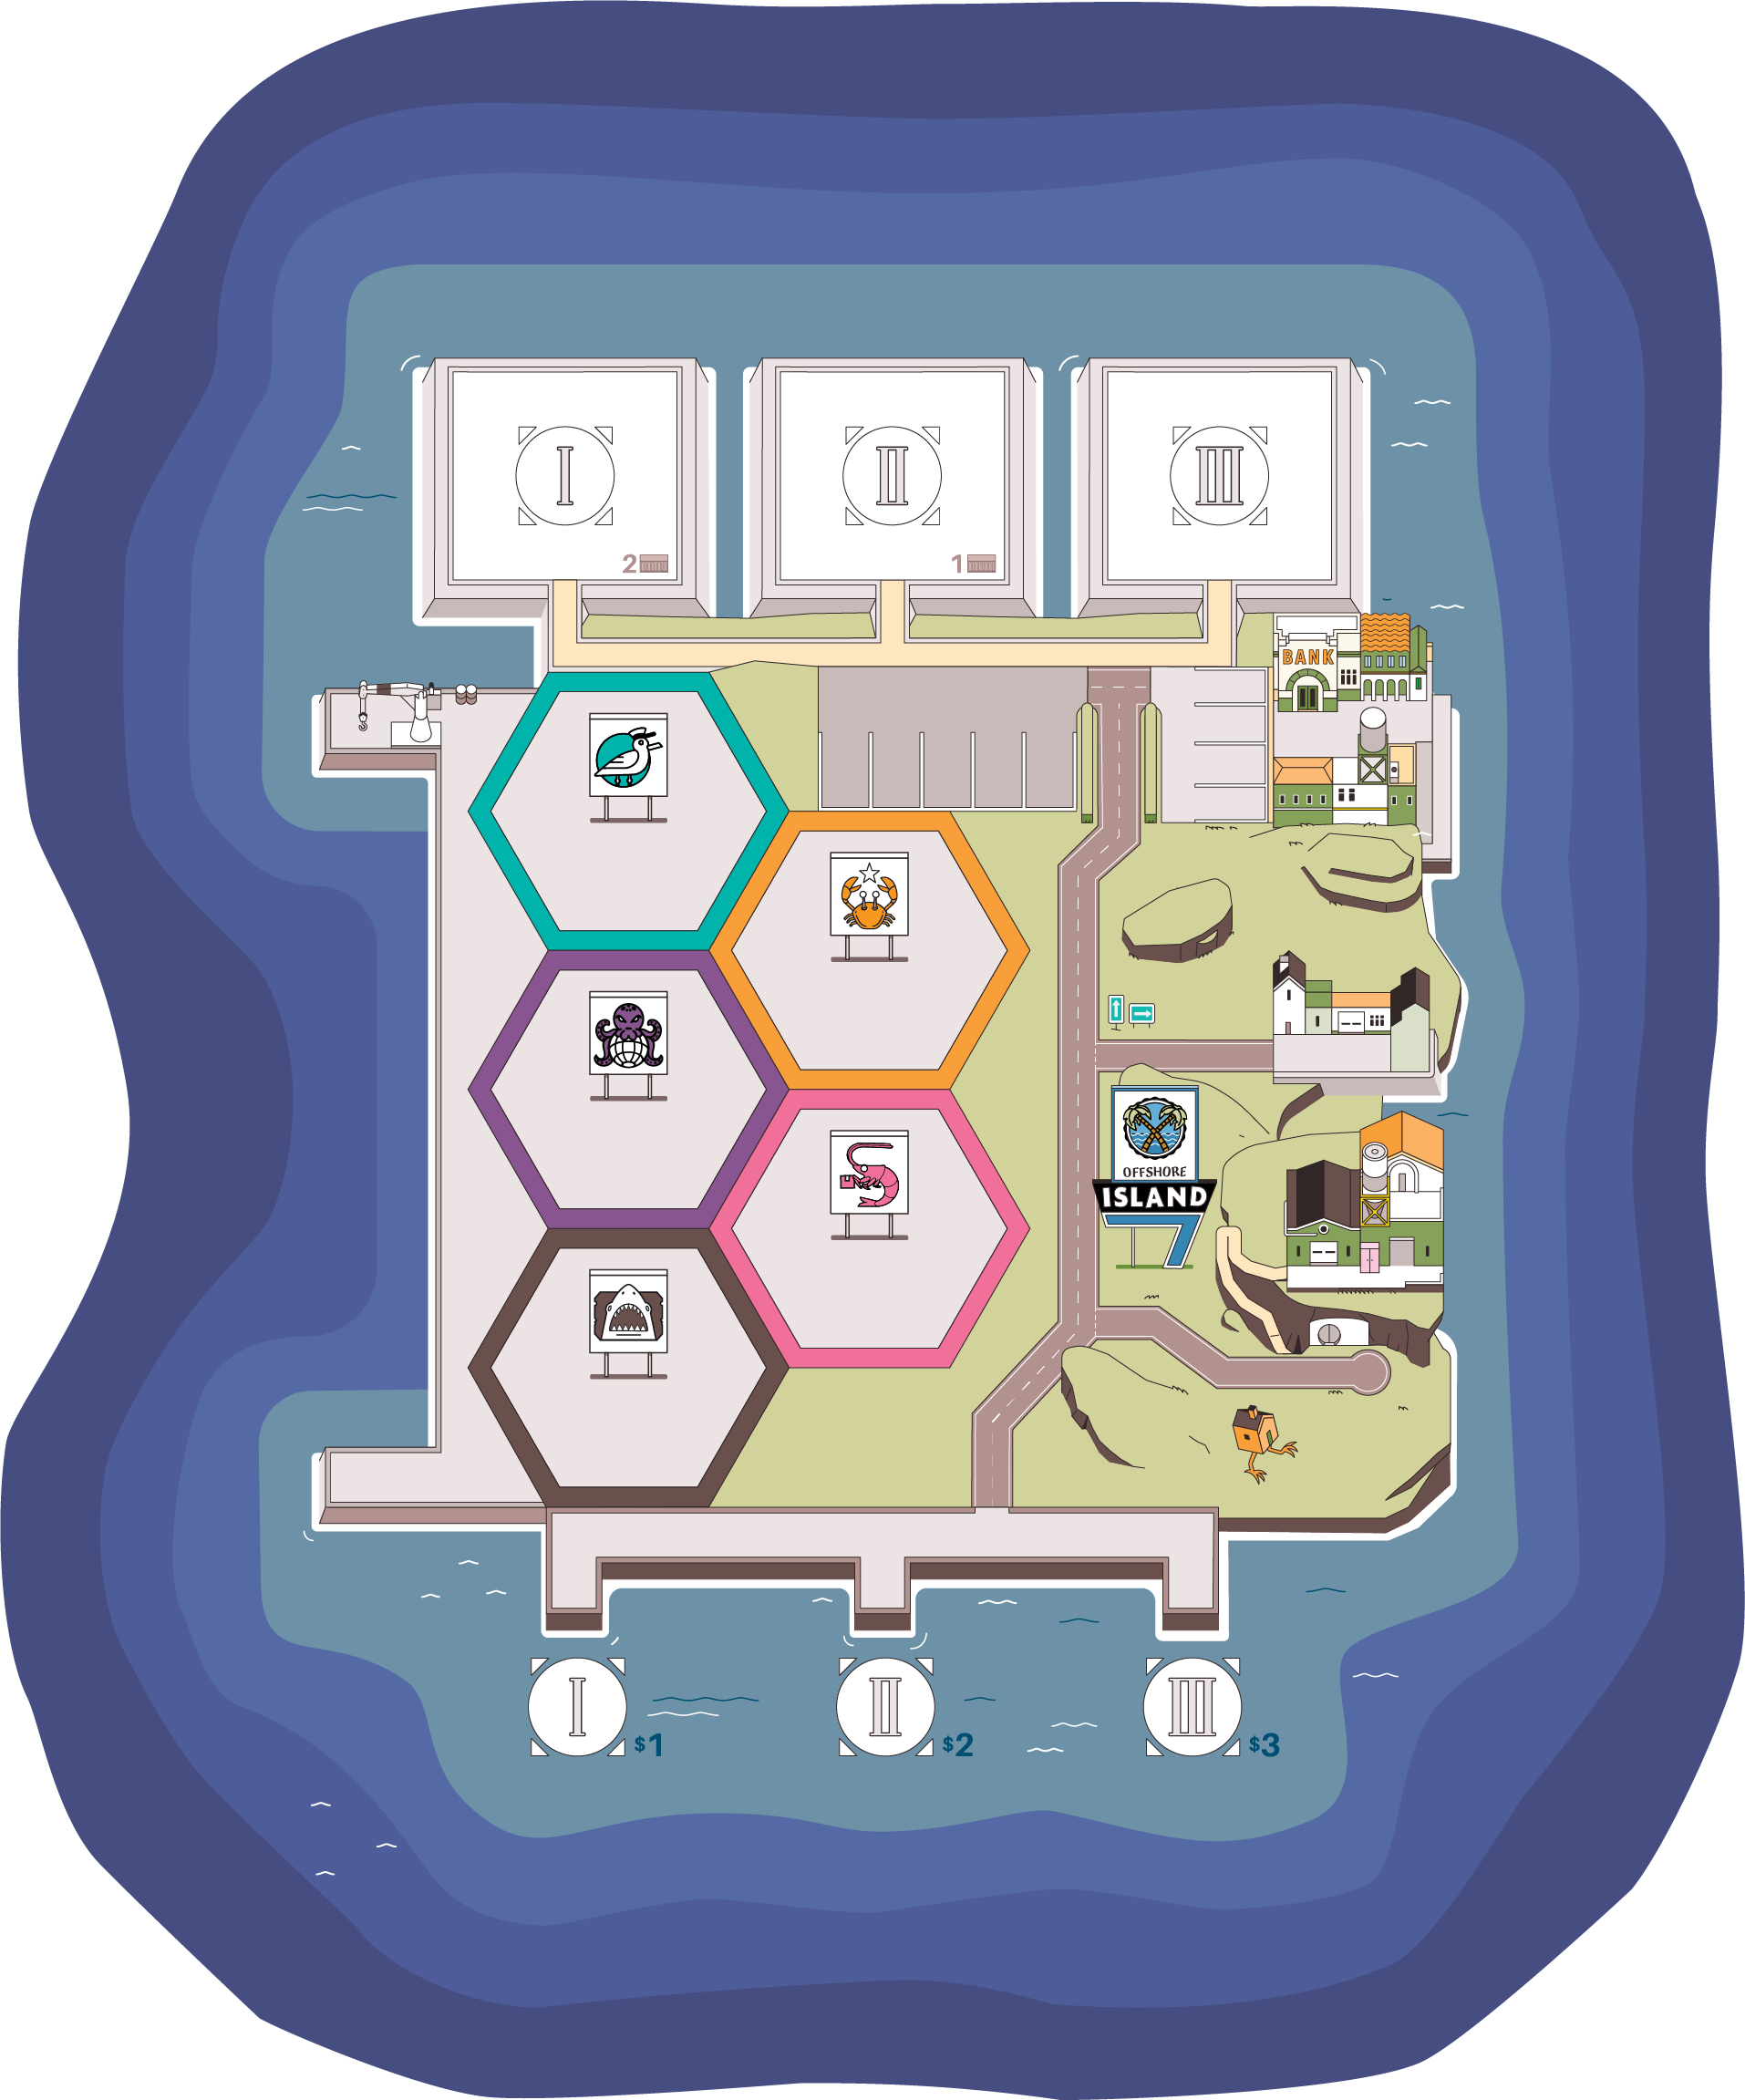
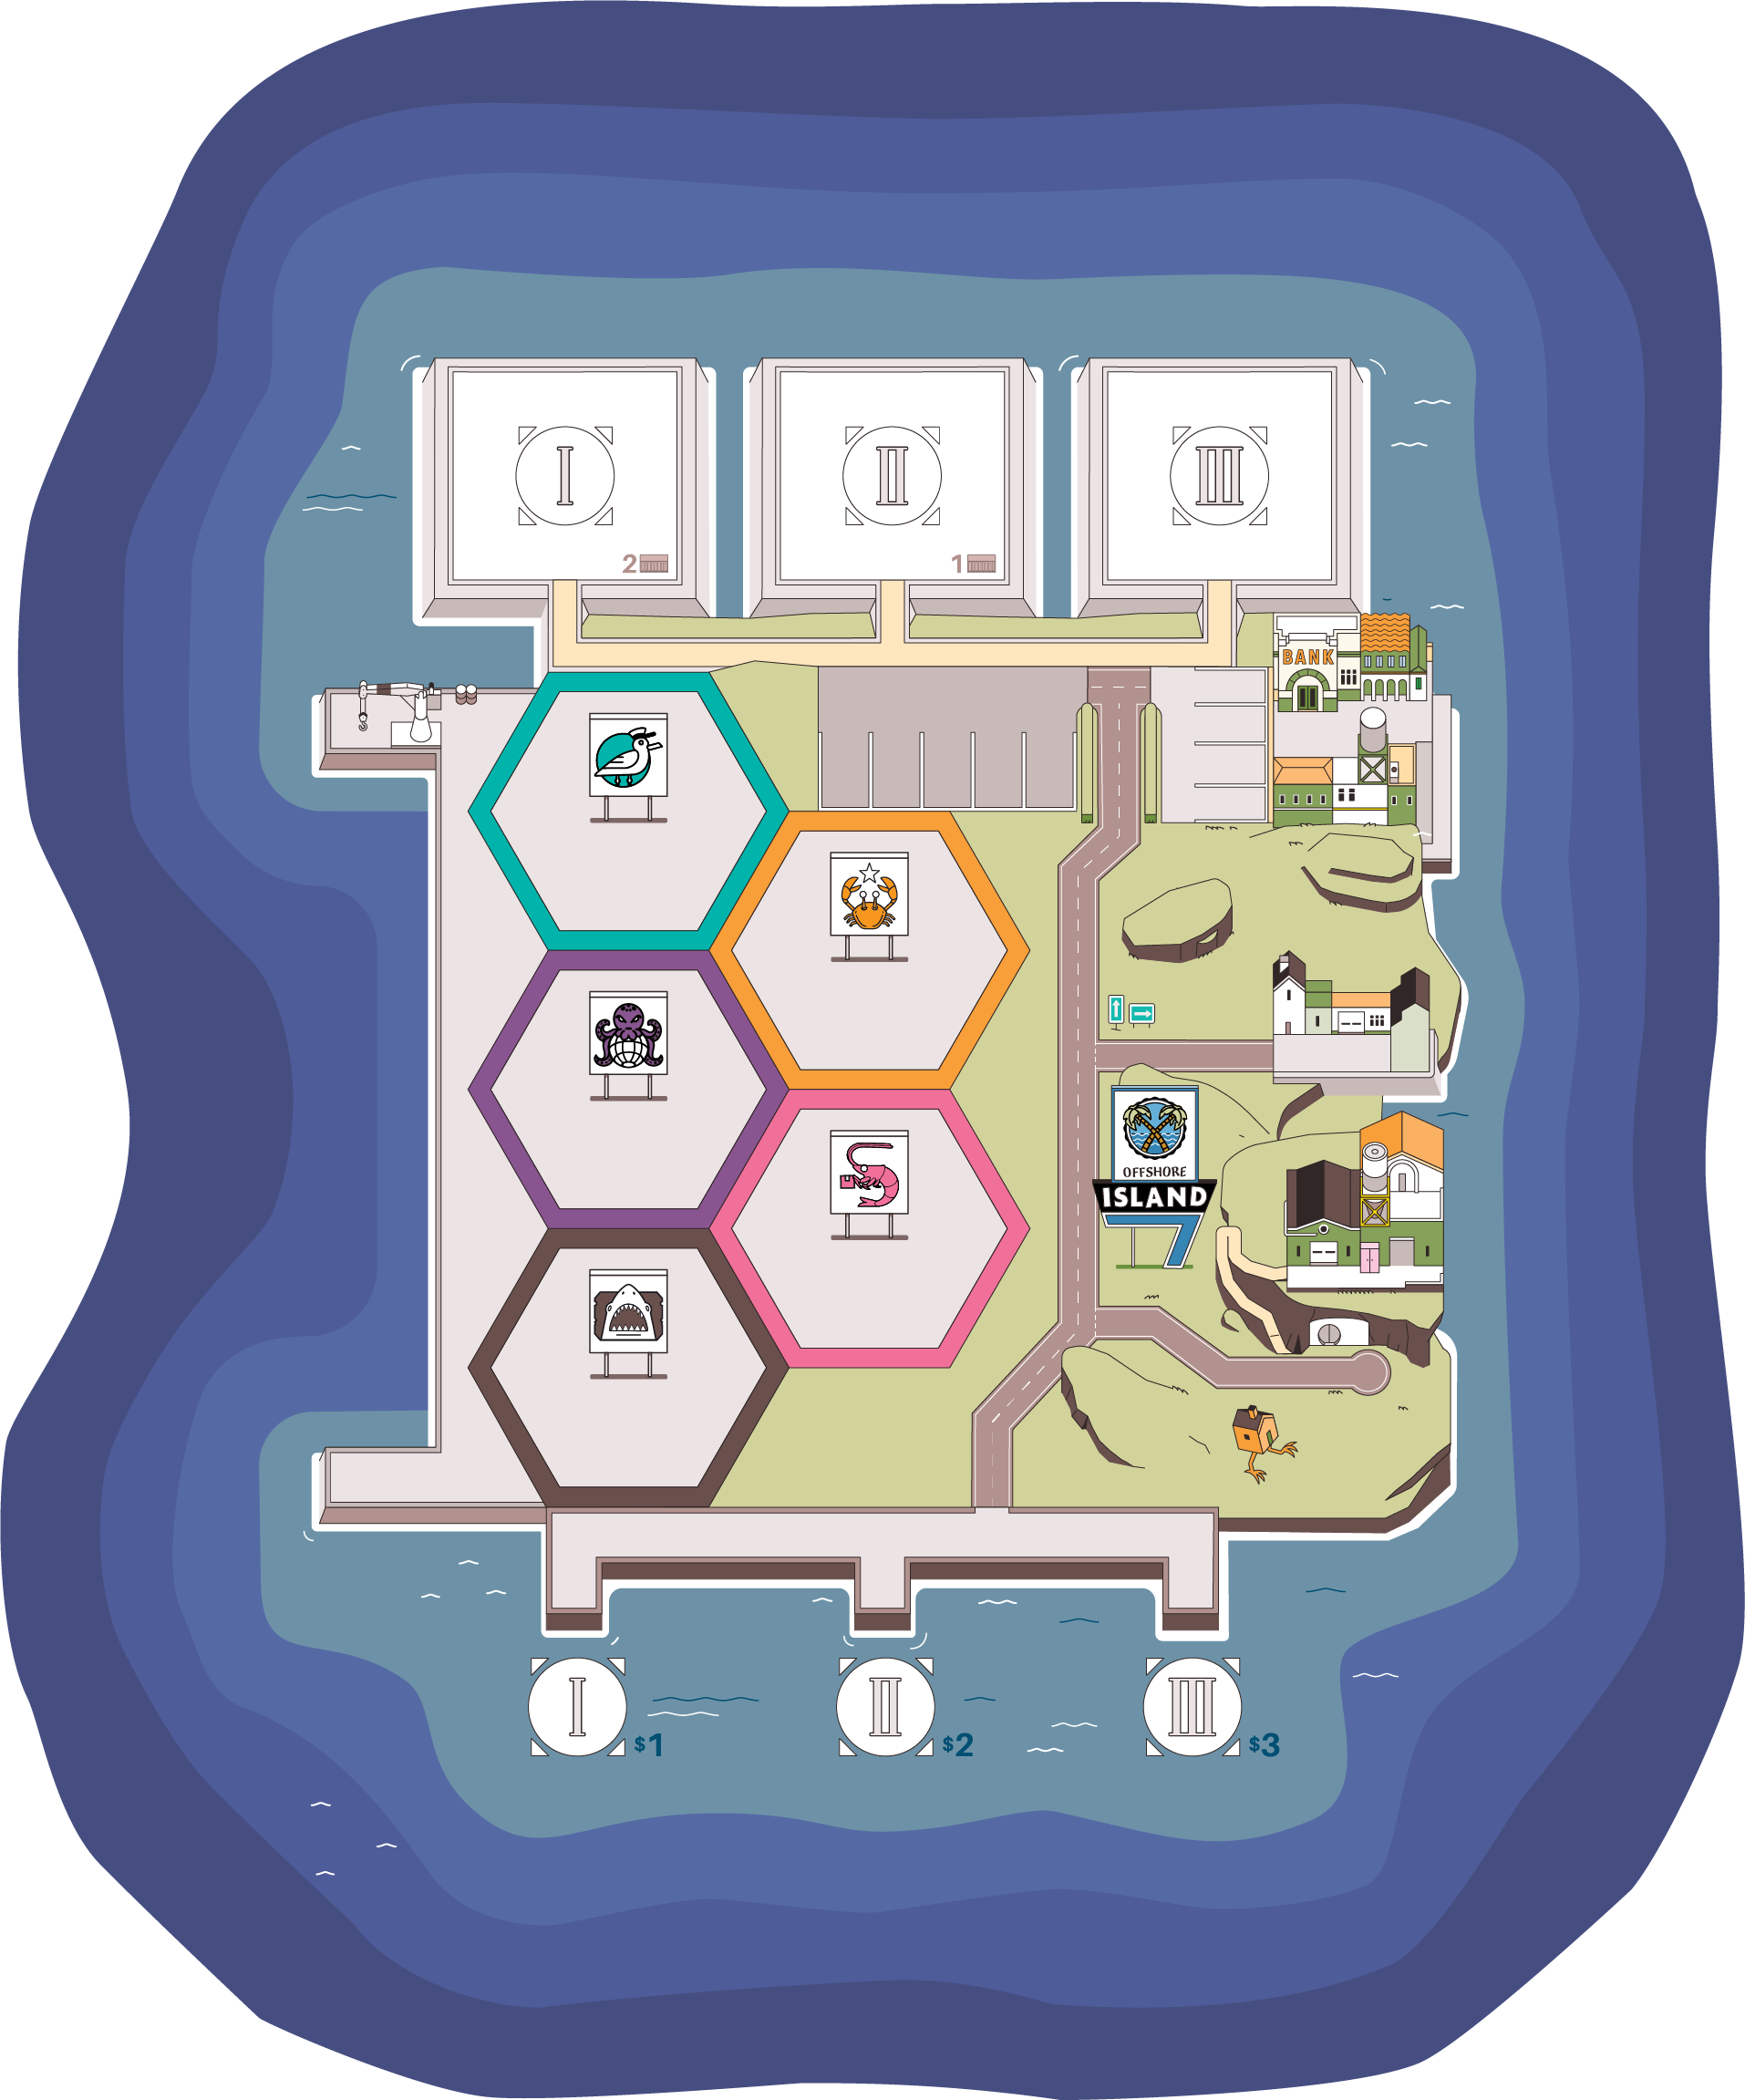
offshore

diff --git a/games/container-ui/src/lib/definitions/svgPathSampler.ts b/games/container-ui/src/lib/definitions/svgPathSampler.ts
@@ -16,6 +16,8 @@ const PARAMS_PER_COMMAND: Record<string, number> = {
     v: 1,
     C: 6,
     c: 6,
+    S: 4,
+    s: 4,
     Z: 0,
     z: 0
 }
@@ -41,6 +43,8 @@ export function sampleSvgPathToPolygon(
 
     let current: Point = { x: 0, y: 0 }
     let subpathStart: Point = { x: 0, y: 0 }
+    let previousCubicControl2: Point | null = null
+    let previousCommand: string | null = null
 
     for (const { command, values } of commands) {
         switch (command) {
@@ -50,12 +54,14 @@ export function sampleSvgPathToPolygon(
                 current = next
                 subpathStart = next
                 points.push(transformPoint(next, scaleX, scaleY, offsetX, offsetY))
+                previousCubicControl2 = null
                 break
             }
             case 'L':
             case 'l': {
                 current = command === 'L' ? toPoint(values[0]!, values[1]!) : addPoint(current, values)
                 points.push(transformPoint(current, scaleX, scaleY, offsetX, offsetY))
+                previousCubicControl2 = null
                 break
             }
             case 'H':
@@ -65,6 +71,7 @@ export function sampleSvgPathToPolygon(
                     y: current.y
                 }
                 points.push(transformPoint(current, scaleX, scaleY, offsetX, offsetY))
+                previousCubicControl2 = null
                 break
             }
             case 'V':
@@ -74,6 +81,7 @@ export function sampleSvgPathToPolygon(
                     y: command === 'V' ? values[0]! : current.y + values[0]!
                 }
                 points.push(transformPoint(current, scaleX, scaleY, offsetX, offsetY))
+                previousCubicControl2 = null
                 break
             }
             case 'C':
@@ -105,16 +113,57 @@ export function sampleSvgPathToPolygon(
                 }
 
                 current = end
+                previousCubicControl2 = control2
+                break
+            }
+            case 'S':
+            case 's': {
+                const control1 =
+                    previousCommand &&
+                    ['C', 'c', 'S', 's'].includes(previousCommand) &&
+                    previousCubicControl2
+                        ? {
+                              x: current.x * 2 - previousCubicControl2.x,
+                              y: current.y * 2 - previousCubicControl2.y
+                          }
+                        : current
+                const control2 =
+                    command === 'S'
+                        ? toPoint(values[0]!, values[1]!)
+                        : { x: current.x + values[0]!, y: current.y + values[1]! }
+                const end =
+                    command === 'S'
+                        ? toPoint(values[2]!, values[3]!)
+                        : { x: current.x + values[2]!, y: current.y + values[3]! }
+
+                for (let step = 1; step <= cubicSubdivisions; step += 1) {
+                    const t = step / cubicSubdivisions
+                    points.push(
+                        transformPoint(
+                            sampleCubicBezier(current, control1, control2, end, t),
+                            scaleX,
+                            scaleY,
+                            offsetX,
+                            offsetY
+                        )
+                    )
+                }
+
+                current = end
+                previousCubicControl2 = control2
                 break
             }
             case 'Z':
             case 'z': {
                 current = subpathStart
+                previousCubicControl2 = null
                 break
             }
             default:
                 throw new Error(`Unsupported SVG path command: ${command}`)
         }
+
+        previousCommand = command
     }
 
     return dedupeAdjacentPoints(points)

diff --git a/games/container-ui/src/lib/definitions/boatNavigation.ts b/games/container-ui/src/lib/definitions/boatNavigation.ts
@@ -7,9 +7,13 @@ import {
 import { polygonFromRect } from '$lib/definitions/geometry2d.js'
 import {
     getMainIslandDockBoatAnchors,
+    getOffshoreDockBoatAnchors,
     MAIN_ISLAND_BOUNDARY_PATH,
     MAIN_ISLAND_SOURCE_HEIGHT,
-    MAIN_ISLAND_SOURCE_WIDTH
+    MAIN_ISLAND_SOURCE_WIDTH,
+    OFFSHORE_ISLAND_BOUNDARY_PATH,
+    OFFSHORE_ISLAND_SOURCE_HEIGHT,
+    OFFSHORE_ISLAND_SOURCE_WIDTH
 } from '$lib/definitions/islandGeometry.js'
 import { getPlayerBoardDockBoatAnchors } from '$lib/definitions/playerBoardGeometry.js'
 import { sampleSvgPathToPolygon } from '$lib/definitions/svgPathSampler.js'
@@ -22,7 +26,7 @@ export type BoatPose = {
 
 export type DockSlot = {
     id: string
-    family: 'main-island-harbor' | 'player-board'
+    family: 'main-island-harbor' | 'offshore-harbor' | 'player-board'
     dockedPose: BoatPose
     stagingPose: BoatPose
 }
@@ -38,6 +42,7 @@ export type BoatNavigationGeometry = {
     boatWidth: number
     boatHeight: number
     mainIslandDockSlots: DockSlot[]
+    offshoreDockSlots: DockSlot[]
     playerBoardDockSlots: DockSlot[]
     obstacles: NavigationObstacle[]
 }
@@ -99,12 +104,13 @@ function createOffshoreObstacle(boardLayout: BoardLayout): NavigationObstacle[] 
     return [
         {
             id: 'offshore-island',
-            polygon: polygonFromRect(
-                boardLayout.offshoreRect.x,
-                boardLayout.offshoreRect.y,
-                boardLayout.offshoreRect.width,
-                boardLayout.offshoreRect.height
-            )
+            polygon: sampleSvgPathToPolygon(OFFSHORE_ISLAND_BOUNDARY_PATH, {
+                cubicSubdivisions: NAVIGATION_ISLAND_BOUNDARY_SUBDIVISIONS,
+                scaleX: boardLayout.offshoreRect.width / OFFSHORE_ISLAND_SOURCE_WIDTH,
+                scaleY: boardLayout.offshoreRect.height / OFFSHORE_ISLAND_SOURCE_HEIGHT,
+                offsetX: boardLayout.offshoreRect.x,
+                offsetY: boardLayout.offshoreRect.y
+            })
         }
     ]
 }
@@ -124,6 +130,23 @@ export function buildBoatNavigationGeometry(boardLayout: BoardLayout): BoatNavig
             stagingPose: createStagingPose(dockedPose, MAIN_ISLAND_DOCK_STAGING_DISTANCE)
         }
     })
+
+    const offshoreDockSlots = boardLayout.offshoreRect
+        ? getOffshoreDockBoatAnchors(
+              boardLayout.offshoreRect.x,
+              boardLayout.offshoreRect.y,
+              boardLayout.offshoreRect.width,
+              boardLayout.offshoreRect.height
+          ).map((anchor, index): DockSlot => {
+              const dockedPose = dockAnchorToPose(anchor, DEFAULT_BOAT_RENDER_WIDTH)
+              return {
+                  id: `offshore-dock-${index}`,
+                  family: 'offshore-harbor',
+                  dockedPose,
+                  stagingPose: createStagingPose(dockedPose, MAIN_ISLAND_DOCK_STAGING_DISTANCE)
+              }
+          })
+        : []
 
     const playerBoardDockSlots = boardLayout.playerBoardSeats.flatMap((seat) =>
         getPlayerBoardDockBoatAnchors(seat.orientation, seat.width, seat.height).map(
@@ -159,6 +182,7 @@ export function buildBoatNavigationGeometry(boardLayout: BoardLayout): BoatNavig
         boatWidth: DEFAULT_BOAT_RENDER_WIDTH,
         boatHeight: DEFAULT_BOAT_RENDER_HEIGHT,
         mainIslandDockSlots,
+        offshoreDockSlots,
         playerBoardDockSlots,
         obstacles
     }

diff --git a/games/container-ui/src/lib/components/Board.svelte b/games/container-ui/src/lib/components/Board.svelte
@@ -201,8 +201,13 @@
         )
     })
 
-    const islandDockBoats = $derived.by(() => {
-        return boatNavigationGeometry.mainIslandDockSlots.map((slot, slotIndex) => {
+    const harborDockBoats = $derived.by(() => {
+        const harborSlots = [
+            ...boatNavigationGeometry.mainIslandDockSlots,
+            ...boatNavigationGeometry.offshoreDockSlots
+        ]
+
+        return harborSlots.map((slot, slotIndex) => {
             const index = slotIndex
             const player = playersAndStates[index % playersAndStates.length]
             const color = player
@@ -210,7 +215,7 @@
                 : '#84accf'
 
             return {
-                key: `island-dock-boat-${index}`,
+                key: `harbor-dock-boat-${index}`,
                 dockId: slot.id,
                 x: slot.dockedPose.x - DEFAULT_BOAT_RENDER_WIDTH / 2,
                 y: slot.dockedPose.y - DEFAULT_BOAT_RENDER_HEIGHT / 2,
@@ -236,10 +241,14 @@
             }
         }
 
-        const startDock = boatNavigationGeometry.mainIslandDockSlots.find(
+        const harborDockSlots = [
+            ...boatNavigationGeometry.mainIslandDockSlots,
+            ...boatNavigationGeometry.offshoreDockSlots
+        ]
+        const startDock = harborDockSlots.find(
             (slot) => slot.id === selectedStartDockId
         )
-        const movingBoat = islandDockBoats.find((boat) => boat.dockId === selectedStartDockId)
+        const movingBoat = harborDockBoats.find((boat) => boat.dockId === selectedStartDockId)
         if (!startDock || !movingBoat) {
             return {
                 status: 'idle',
@@ -247,7 +256,7 @@
             }
         }
 
-        const occupiedBoatPoses = boatNavigationGeometry.mainIslandDockSlots
+        const occupiedBoatPoses = harborDockSlots
             .filter((slot) => slot.id !== startDock.id)
             .map((slot) => slot.dockedPose)
         const candidateDocks = boatNavigationGeometry.playerBoardDockSlots
@@ -398,7 +407,7 @@
                     fill={PLAYER_BOARD_UNDERLAY_FILL}
                 ></rect>
             {/each}
-            {#each islandDockBoats as boat (boat.key)}
+            {#each harborDockBoats as boat (boat.key)}
                 {#if routeProbe.status !== 'success' || routeProbe.startDockId !== boat.dockId}
                     <Boat x={boat.x} y={boat.y} color={boat.color} rotation={boat.rotation} />
                 {/if}

diff --git a/games/container-ui/src/lib/definitions/islandGeometry.ts b/games/container-ui/src/lib/definitions/islandGeometry.ts
@@ -2,6 +2,12 @@ export const MAIN_ISLAND_SOURCE_WIDTH = 1049
 export const MAIN_ISLAND_SOURCE_HEIGHT = 1248
 export const MAIN_ISLAND_BOUNDARY_PATH =
     'M733.52,953.87l-0.33,88.94c-0.08,21.39,-17.83,38.69,-39.7,38.69h-118.48c-9.01,0,-17.06,-5.54,-20.09,-13.84h0c-4.45,-12.18,-18.16,-18.49,-30.58,-14.07l-57.41,20.43c-13.91,4.96,-28.61,7.48,-43.43,7.48h-150.65c-28.43,0,-54.53,-16.85,-75.05,-41.18,-37.22,-44.15,-47.89,-104.26,-29.41,-158.57l22.67,-66.59c11.71,-34.4,8.15,-72.02,-9.84,-103.74l-5.85,-10.3c-17.09,-30.13,-22.89,-65.2,-16.11,-99.01,1.66,-8.31,3.68,-16.55,6.04,-24.73l5.87,-20.32c13.75,-47.61,11.65,-97.37,1.31,-145.79,-7.63,-35.73,-4.73,-128.82,10.24,-161.65,29.25,-64.13,83,-82.98,159.43,-82.98l116.47,0.71c45.46,0,62.88,50.4,106.1,50h61.77c39.79,0,88.69,17.54,103.47,52.76,8.09,19.3,40.81,59.75,62.14,59.94l56.43,0.52c23.08,0.21,41.7,18.54,41.77,41.12l0.13,40.09c0.07,23.29,-19.21,42.21,-43.01,42.21h-51.42c-9.33,0,-16.95,7.32,-17.13,16.45l-5.33,286.53c-0.24,12.83,10.3,23.38,23.42,23.44l63.41,0.28c17.3,0.08,31.31,13.79,31.36,30.72l0.14,45.85c0.07,20.88,-17.34,37.79,-38.68,37.57l-55.51,-0.57c-44,1.3,-62.35,18.89,-64.2,59.6Z'
+export const OFFSHORE_ISLAND_SOURCE_WIDTH = 694.98
+export const OFFSHORE_ISLAND_SOURCE_HEIGHT = 864.18
+export const OFFSHORE_ISLAND_BOUNDARY_PATH =
+    'M 523.36,755.73 c -36.27,15.82,-54.55,7.24,-101.49,-3.74 -13.2,-3.09,-36.92,8.12,-69.64,8.38 -21.13,0.17,-30.21,-8.38,-69.53,-7.75 -53.99,0.85,-67.6,24.89,-96.18,-3.31 -19.45,-19.2,-12.59,-43.47,-25.27,-52.76 -32.51,-23.82,-57.9,-1.03,-57.9,-42.79 l -0.69,-47.49 c -0.18,-12.51,9.37,-22.88,21.24,-23.05 l 76.37,-1.06 -4.15,-252.44 -68.35,-0.2 c -14.02,-0.04,-25.32,-12.17,-25.08,-26.96 0.45,-26.97,2.04,-59.86,2.07,-78.03 s 29.84,-54.69,31.25,-66.94 C 140.46,119.15,140.05,102.64,176.56,99.77 c 0,0,83.21,8.39,114.08,3.26 45.79,-7.62,97.1,3.38,129.44,1.98 23.45,-1.01,78.4,-3.77,109.76,-0.22 41.23,4.67,62.26,18.6,59.74,45.78 -1.42,15.35,-0.23,40.12,3.23,55.09 8.83,38.17,12.26,86.76,7.04,157.24 -1.15,15.51,9.23,31.47,9.4,47.09 0.27,25.65,-8.75,32.54,-8.76,58.6 -0.03,69.02,6.19,170.26,6.19,170.26 0,26.43,-52.28,29.65,-68.01,44.25 -12.17,11.29,14.7,59.51,-15.33,72.62 Z'
+export const OFFSHORE_DOCK_BOAT_TIP_SOURCE_X = 228
+export const OFFSHORE_DOCK_BOAT_CENTER_SOURCE_YS = [490, 570, 650, 730] as const
 
 export const MAIN_ISLAND_DOCK_BOAT_TIP_SOURCE_X = 770
 export const MAIN_ISLAND_DOCK_BOAT_CENTER_SOURCE_YS = [497, 577, 657, 737] as const
@@ -42,4 +48,19 @@ export function getMainIslandDockBoatAnchors(
             rotation: 180
         }
     ]
+}
+
+export function getOffshoreDockBoatAnchors(
+    islandX: number,
+    islandY: number,
+    islandWidth: number,
+    islandHeight: number
+): IslandDockBoatAnchor[] {
+    const tipX = islandX + islandWidth * (OFFSHORE_DOCK_BOAT_TIP_SOURCE_X / (1914 / 2))
+
+    return OFFSHORE_DOCK_BOAT_CENTER_SOURCE_YS.map((sourceCenterY) => ({
+        tipX,
+        centerY: islandY + islandHeight * (sourceCenterY / (2303 / 2)),
+        rotation: 0
+    }))
 }

diff --git a/games/container-ui/src/lib/components/BoardBaseLayer.svelte b/games/container-ui/src/lib/components/BoardBaseLayer.svelte
@@ -3,6 +3,9 @@
     import offshoreImg from '$lib/images/[email redacted]'
     import {
         MAIN_ISLAND_BOUNDARY_PATH,
+        OFFSHORE_ISLAND_BOUNDARY_PATH,
+        OFFSHORE_ISLAND_SOURCE_HEIGHT,
+        OFFSHORE_ISLAND_SOURCE_WIDTH,
         MAIN_ISLAND_SOURCE_HEIGHT,
         MAIN_ISLAND_SOURCE_WIDTH
     } from '$lib/definitions/islandGeometry.js'
@@ -55,5 +58,16 @@
             height={offshoreRect.height}
             preserveAspectRatio="xMidYMid meet"
         ></image>
+        <g
+            transform={`translate(${offshoreRect.x} ${offshoreRect.y}) scale(${offshoreRect.width / OFFSHORE_ISLAND_SOURCE_WIDTH} ${offshoreRect.height / OFFSHORE_ISLAND_SOURCE_HEIGHT})`}
+        >
+            <path
+                d={OFFSHORE_ISLAND_BOUNDARY_PATH}
+                fill="none"
+                stroke="#ff2a2a"
+                stroke-width="1.5"
+                stroke-miterlimit="10"
+            ></path>
+        </g>
     {/if}
 </g>

diff --git a/games/container-ui/src/lib/definitions/boatPlanner.ts b/games/container-ui/src/lib/definitions/boatPlanner.ts
@@ -188,6 +188,12 @@ const DOCK_MANEUVER_CONFIG: Record<DockSlot['family'], DockManeuverConfig> = {
         straightApproachDistances: [72, 120, 180],
         turnRadius: 132
     },
+    'offshore-harbor': {
+        undockReverseDistance: 100,
+        undockReverseTurnRadius: 42,
+        straightApproachDistances: [72, 120, 180],
+        turnRadius: 132
+    },
     'player-board': {
         undockReverseDistance: 52,
         undockReverseTurnRadius: 36,